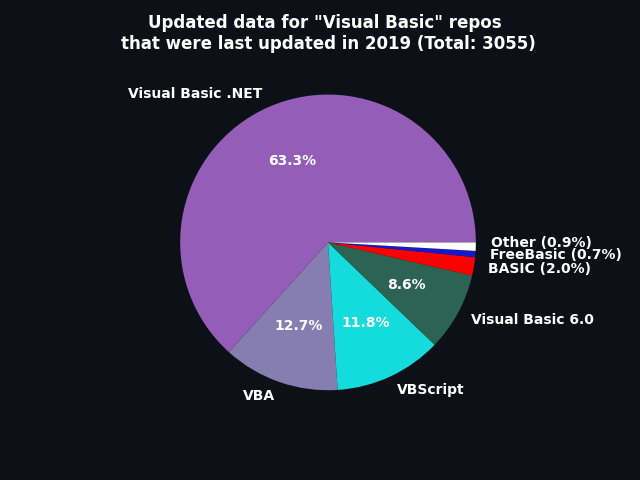
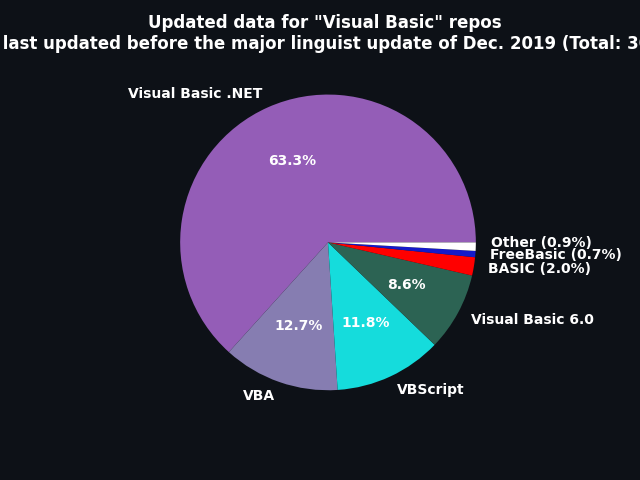
Chart formatting

Changed region(s): [[0.0, 0.0625, 1.0, 0.125]]

diff --git a/chart.py b/chart.py
@@ -56,7 +56,8 @@ for text in texts:
     if text.get_text().startswith('Other'):
         text.set_y(text.get_position()[1] + 0.03)  # Adjust the y-position
 
-plt.title(f'Updated data for "Visual Basic" repos \nthat were last updated in 2019 (Total: {total_count})', color='white', fontweight='bold')
+# Total estimate based on : https://github.com/search?q=lang%3Avbnet%20pushed%3A%3C2019-12-07&type=repositories
+plt.title(f'Updated data for "Visual Basic" repos\nthat were last updated before the major linguist update of Dec. 2019\n(Total: {total_count} / 50.4k)', color='white', fontweight='bold', loc='left')
 plt.savefig('./charts/2019.png', facecolor=fig.get_facecolor())
 plt.show()
 
